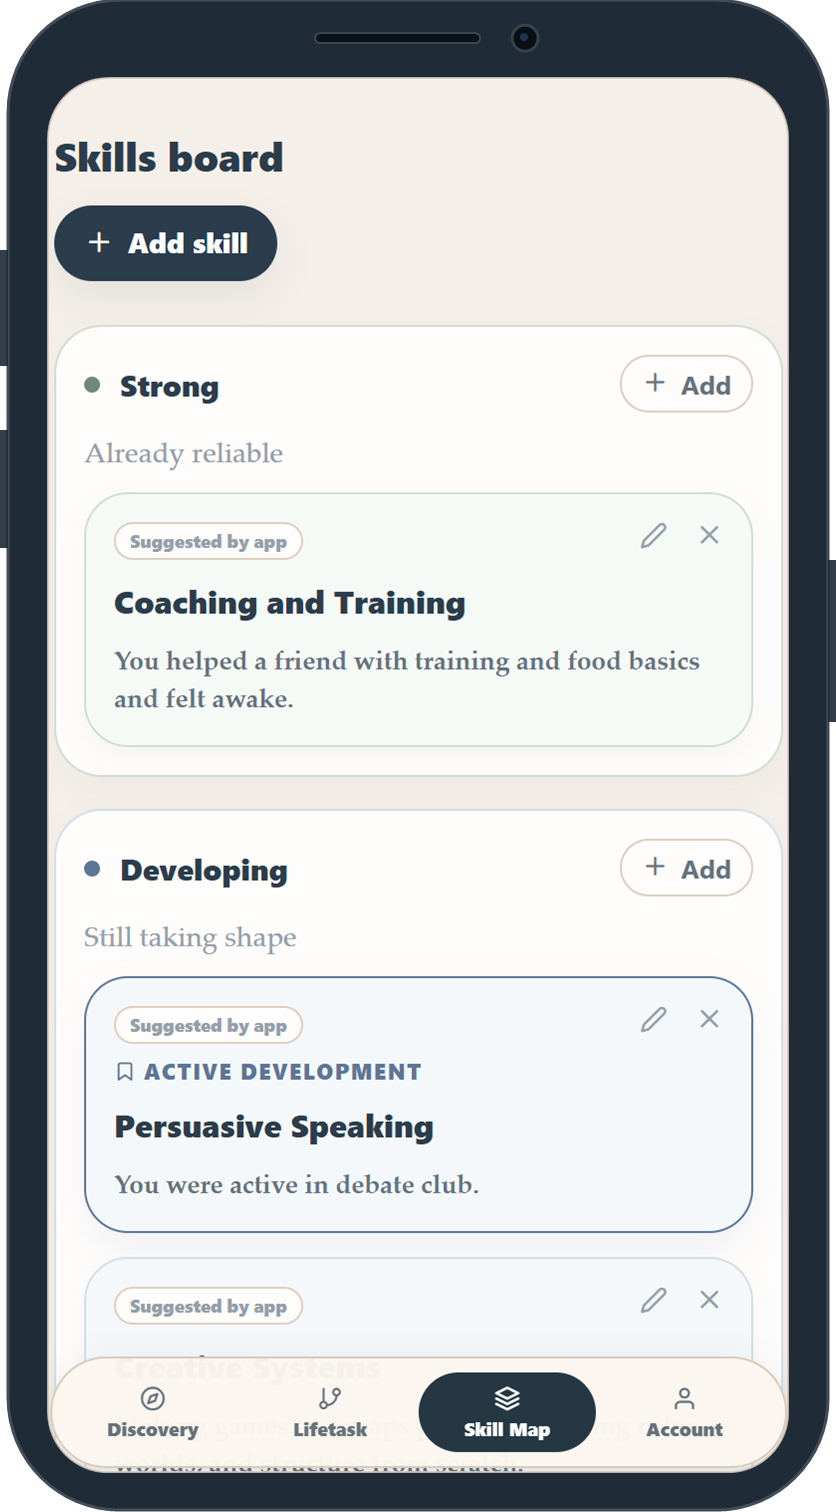
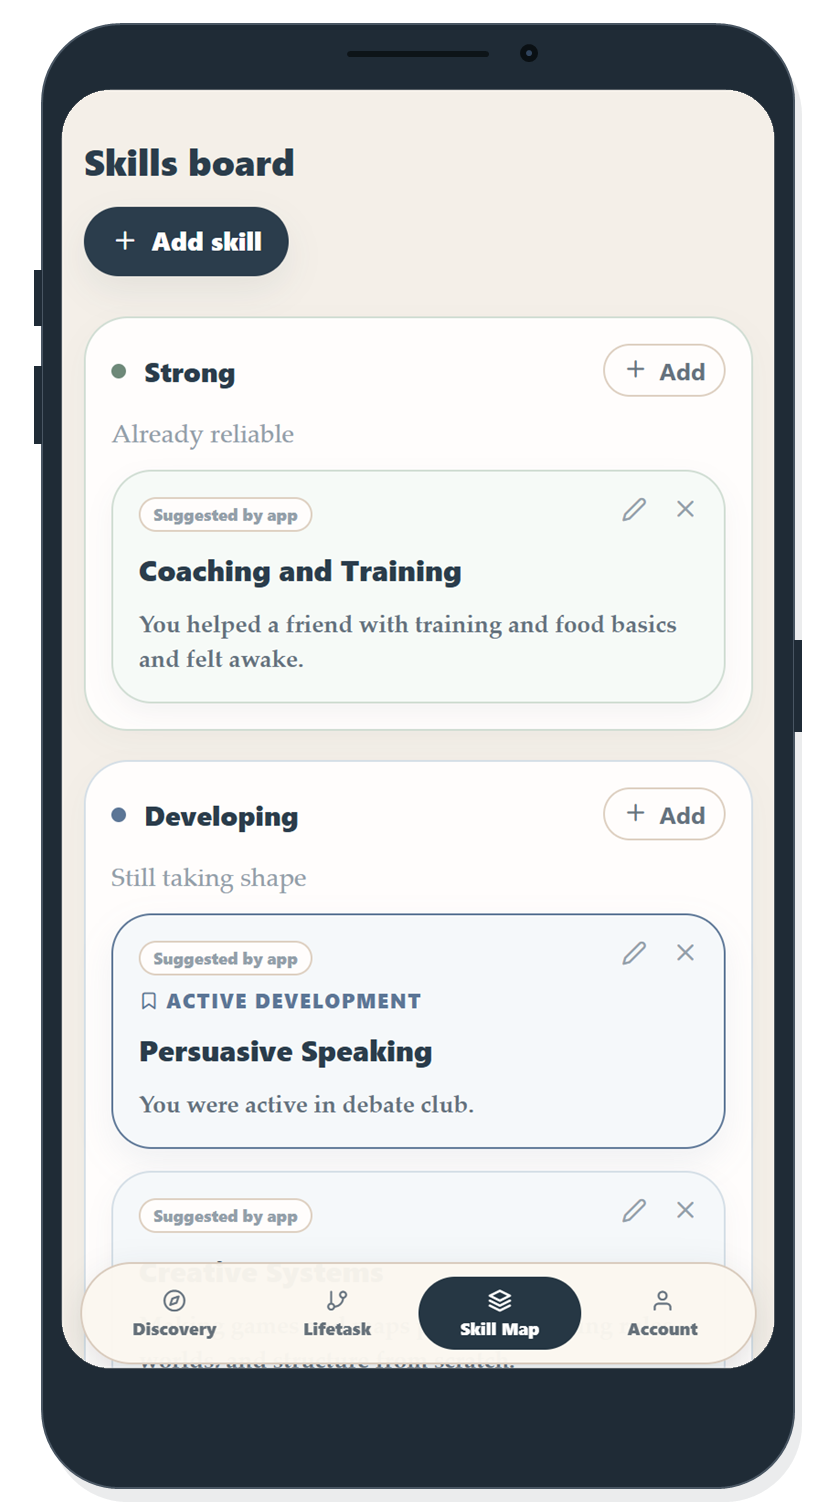
Refine landing previews and sections

diff --git a/styles.css b/styles.css
@@ -1230,3 +1230,64 @@ p {
     transform-origin: center;
   }
 }
+/* Premium reduction pass: fewer boxes in lower explanatory sections. */
+.split-section .feature-grid,
+.process-section .steps {
+  gap: 30px;
+}
+
+.split-section .feature-grid article,
+.process-section .steps article {
+  min-height: 0;
+  padding: 24px 4px 0;
+  border: 0;
+  border-top: 1px solid rgba(169, 99, 72, 0.34);
+  border-radius: 0;
+  background: transparent;
+  box-shadow: none;
+}
+
+.split-section .feature-grid article:first-child,
+.process-section .steps article:nth-child(2),
+.process-section .steps article:nth-child(3) {
+  border-color: rgba(169, 99, 72, 0.34);
+  background: transparent;
+}
+
+.split-section .feature-grid article:first-child::before {
+  display: none;
+}
+
+.audience-list {
+  gap: 0;
+  border-left: 2px solid rgba(169, 99, 72, 0.72);
+}
+
+.audience-list p {
+  padding: 22px 0 22px 26px;
+  border: 0;
+  border-bottom: 1px solid rgba(169, 99, 72, 0.2);
+  border-radius: 0;
+  background: transparent;
+}
+
+.audience-list p:last-child {
+  border-bottom: 0;
+}
+
+@media (max-width: 680px) {
+  .split-section .feature-grid,
+  .process-section .steps {
+    gap: 22px;
+  }
+
+  .split-section .feature-grid article,
+  .process-section .steps article {
+    padding: 18px 0 0;
+  }
+
+  .audience-list p {
+    padding: 18px 0 18px 18px;
+  }
+}
+